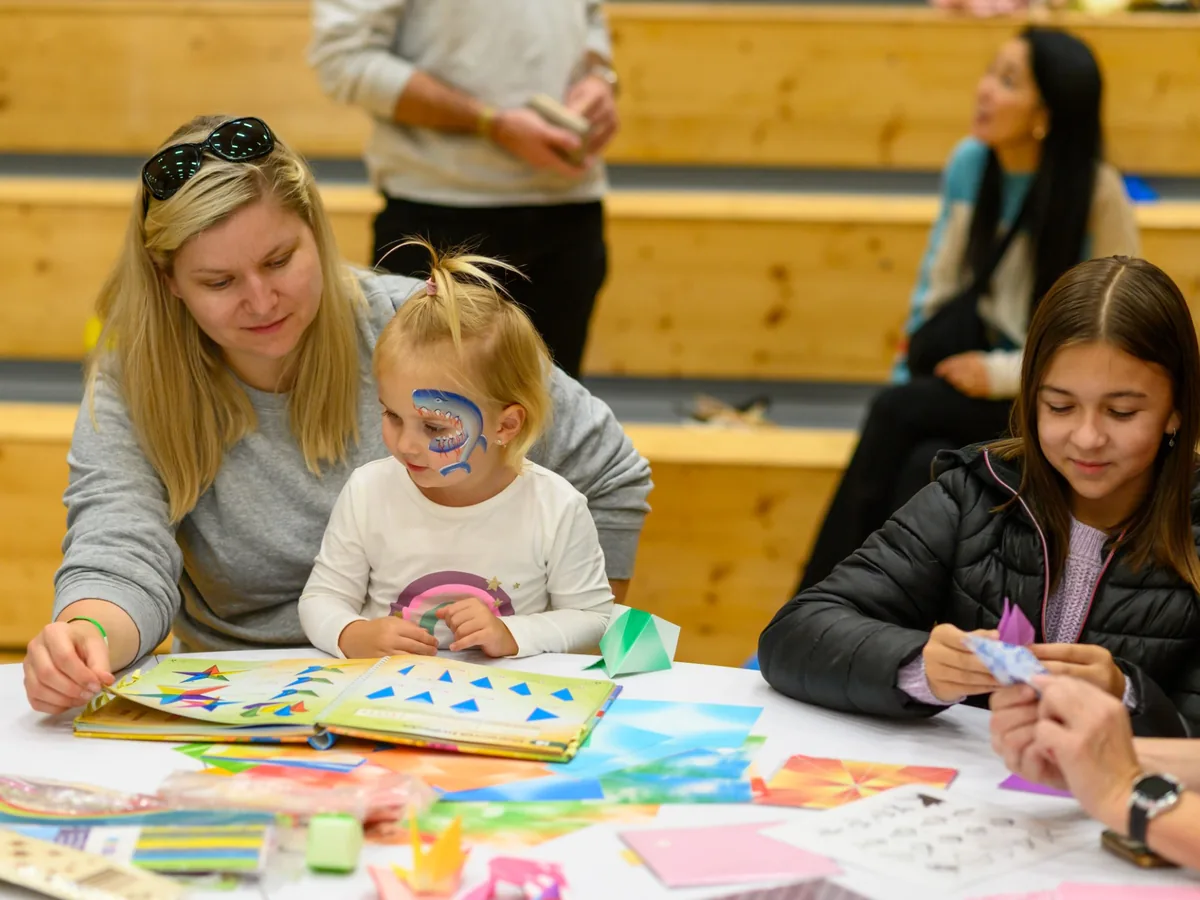
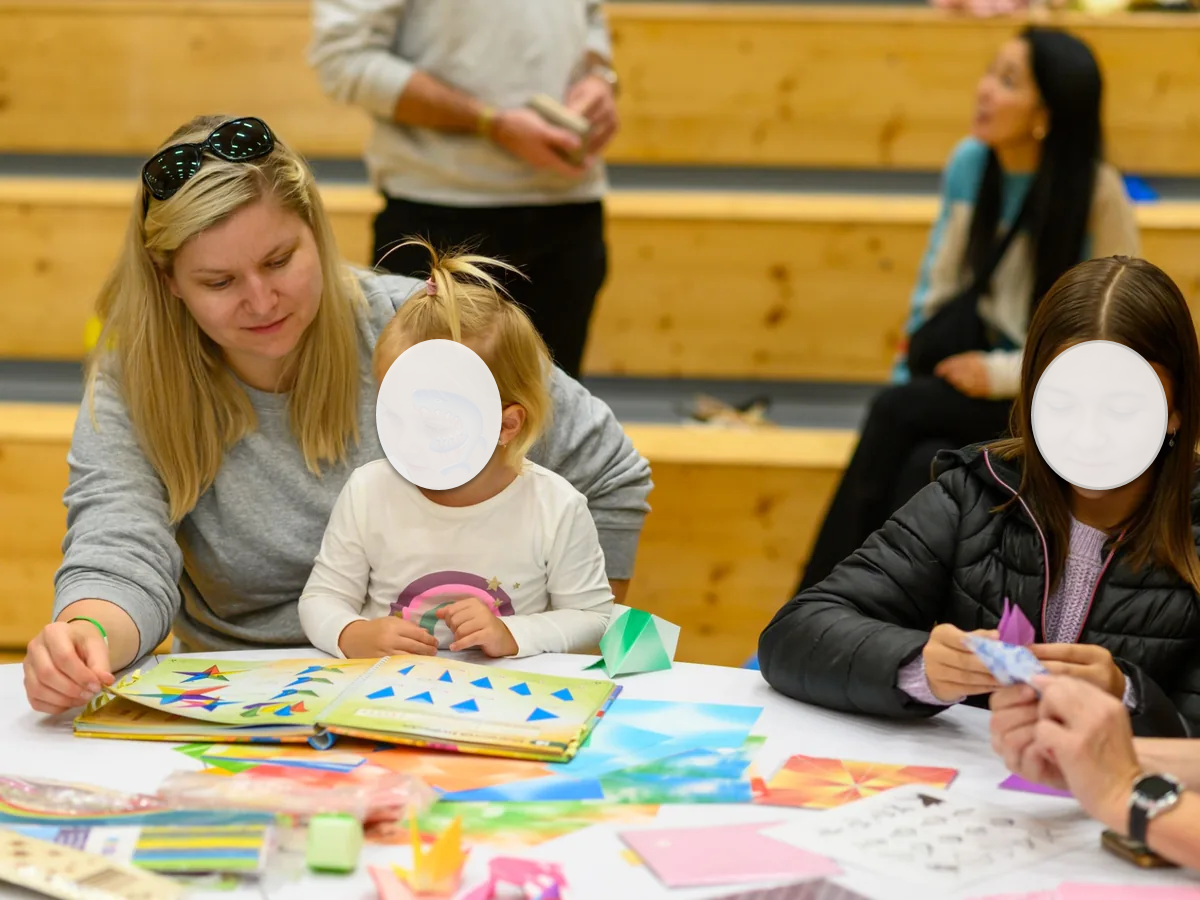
add smartsupp chat window

Changed region(s): [[0.8325, 0.3733, 0.9867, 0.56], [0.3083, 0.3733, 0.4317, 0.56]]

diff --git a/src/components/SmartsuppChat.jsx b/src/components/SmartsuppChat.jsx
@@ -1,0 +1,44 @@
+import { useEffect } from "react";
+import seo from "../data/seo.json";
+
+let smartsuppInitialized = false;
+const SMARTSUPP_KEY = "bc955f82abb1e2ce11cf5a729c9461f0324d7534";
+
+function getSmartsuppLanguage() {
+  return seo.language === "en-GB" ? "en" : "cs";
+}
+
+export default function SmartsuppChat() {
+  useEffect(() => {
+    if (smartsuppInitialized || window.smartsupp) return;
+
+    smartsuppInitialized = true;
+
+    try {
+      window._smartsupp = window._smartsupp || {};
+      window._smartsupp.key = SMARTSUPP_KEY;
+      window.smartsupp = window.smartsupp || function (...args) {
+        window.smartsupp._.push(args);
+      };
+      window.smartsupp._ = window.smartsupp._ || [];
+      window.smartsupp("language", getSmartsuppLanguage());
+
+      const script = document.createElement("script");
+      script.type = "text/javascript";
+      script.charset = "utf-8";
+      script.async = true;
+      script.src = "https://www.smartsuppchat.com/loader.js?";
+
+      const firstScript = document.getElementsByTagName("script")[0];
+      if (firstScript?.parentNode) {
+        firstScript.parentNode.insertBefore(script, firstScript);
+      } else {
+        document.head.appendChild(script);
+      }
+    } catch {
+      // A chat failure must not affect the rest of the application.
+    }
+  }, []);
+
+  return null;
+}

diff --git a/src/App.jsx b/src/App.jsx
@@ -15,6 +15,7 @@ import Partners from "./components/Partners.jsx";
 import Footer from "./components/Footer.jsx";
 import PageIntro from "./components/PageIntro.jsx";
 import Breadcrumbs from "./components/Breadcrumbs.jsx";
+import SmartsuppChat from "./components/SmartsuppChat.jsx";
 import SEO from "./seo/SEO.jsx";
 import seo from "./data/seo.json";
 import performers from "./data/performers.json";
@@ -99,6 +100,7 @@ export default function App() {
 
   return (
     <>
+      <SmartsuppChat />
       <SEO path={isKnown ? path : "/"} route={route} />
       <Header />
       {performer ? (

diff --git a/src/styles/global.css b/src/styles/global.css
@@ -1051,3 +1051,25 @@ button {
 .programHeading {
   min-width: 0;
 }
+
+@media (min-width: 761px) {
+  iframe#widgetButtonFrame {
+    transform: scale(1.15);
+    transform-origin: bottom right;
+  }
+
+  #smartsupp-widget-container > [data-testid="widgetMessengerFrame"] {
+    transform: scale(1.25);
+    transform-origin: bottom right;
+  }
+}
+
+@media (max-width: 760px) {
+  iframe#widgetButtonFrame {
+    transform: none;
+  }
+
+  #smartsupp-widget-container > [data-testid="widgetMessengerFrame"] {
+    transform: none;
+  }
+}
